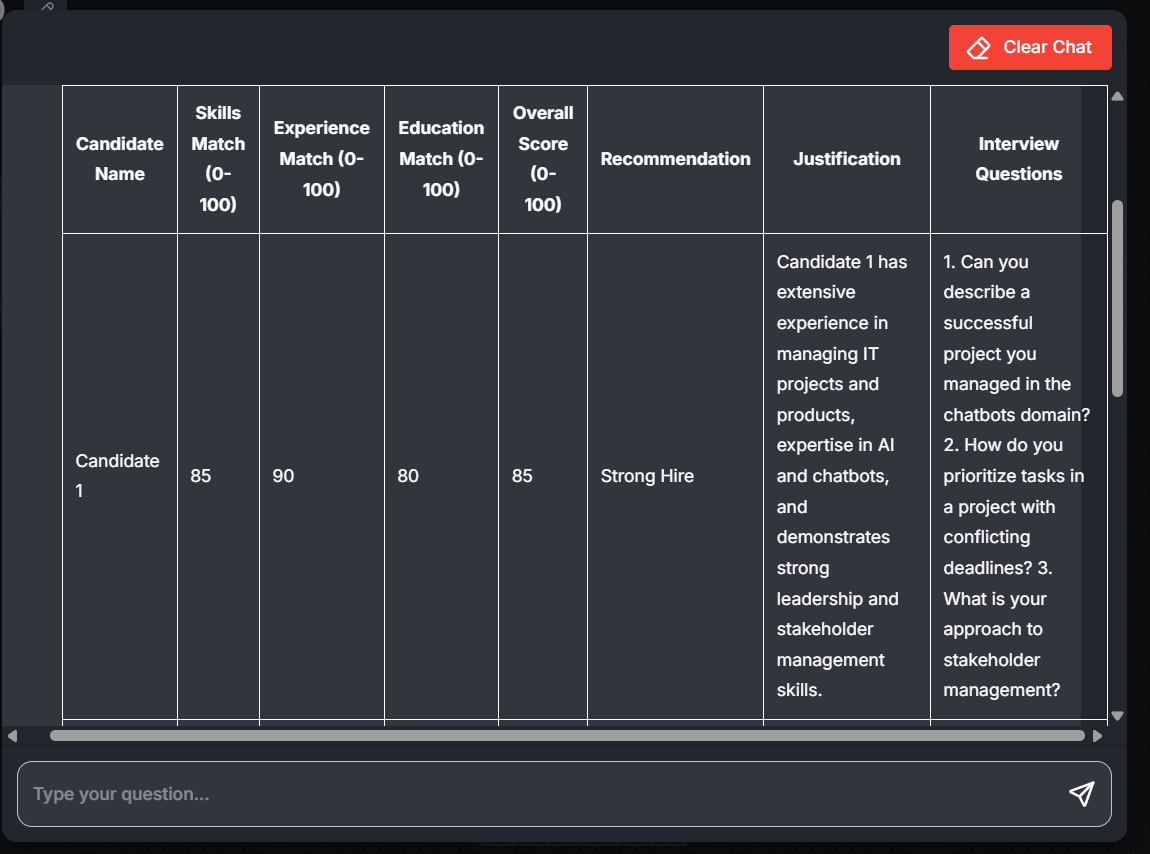
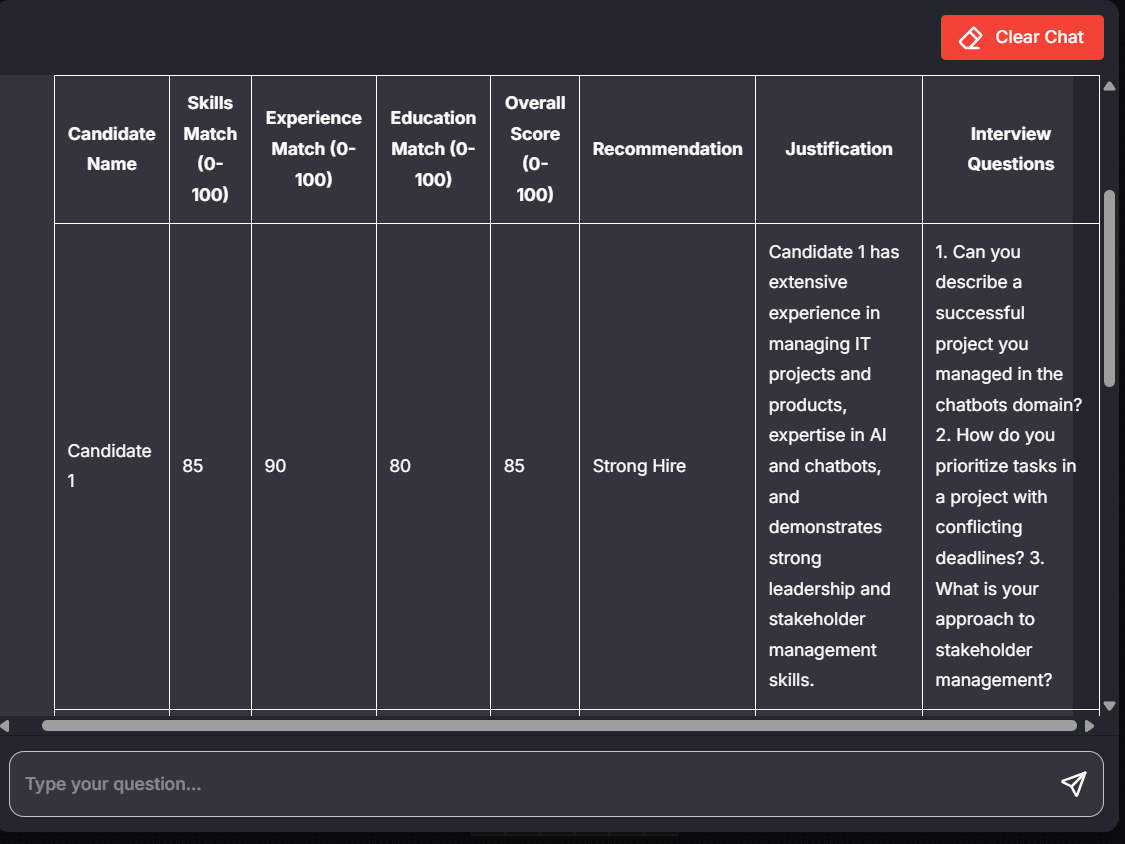
Optimization of the project's visual design

diff --git a/README.md b/README.md
@@ -1,11 +1,12 @@
 # ai-hr-assistant
 
 ![Flowise AI](https://img.shields.io/badge/Flowise-AI-blue)
-![OpenAI](https://img.shields.io/badge/OpenAI-GPT--5.4--mini-green)
+![OpenAI](https://img.shields.io/badge/OpenAI-GPT--4o-green)
 ![RAG](https://img.shields.io/badge/RAG-enabled-orange)
 ![License](https://img.shields.io/badge/License-MIT-yellow)
 
 AI HR Assistant is an AI-powered recruitment assistant that analyzes one or multiple candidate resumes, evaluates candidates against predefined criteria, and generates personalized interview questions.
+
 The project is built on Flowise and uses LLM + Retrieval + Structured output.
 
 # Features
@@ -42,6 +43,7 @@ It generated:
 ![Example Output](screenshots/example-output.png)
 # Architecture
 
+```
 Resume PDF(s)
       ↓
 Recursive Character Text Splitter
@@ -58,7 +60,9 @@ ChatOpenAI
       ↓
 Structured Output Parser
       ↓
-Candidate Evaluation JSON
+Candidate Evaluation JSON 
+```
+
 
 # Tech Stack
 
@@ -75,20 +79,28 @@ Candidate Evaluation JSON
 
 The knowledge source is provided dynamically through uploaded candidate resumes in PDF format.
 
-Input:
-Candidate(s) Resume (PDF)
-Job description
+Evaluation Input:
+
+* Candidate(s) Resume (PDF)
+* Job description
+
+The agent can evaluate candidates against:
+
+- a provided job description; or
+- standard industry requirements when no job description is provided.
 
 Processing:
+
 PDF → Text → Chunks → Embeddings → Vector Store
 
 Retrieval:
+
 Relevant resume information → LLM
 
 Output: 
 - Ranked candidate list
 - Individual scores
-- Hiring recommendationv
+- Hiring recommendation
 
 # Evaluation Logic
 
@@ -104,10 +116,12 @@ The agent evaluates candidates using predefined criteria and generates an overal
 The recommendation is deterministically mapped to the Overall Score using predefined thresholds.
 
 Recommendation:
-* **85 - 100**`Strong Hire`
-* **70 - 84** `Hire`
-* **50 - 69** `Consider`
-* **0 - 49** `Reject`
+| Overall Score | Recommendation |
+|---|---|
+| 85–100 | Strong Hire |
+| 70–84 | Hire |
+| 50–69 | Consider |
+| 0–49 | Reject |
 
 AI-generated evaluations are intended to support recruiter decision-making and should always be reviewed by a human.
 # Project Structure
@@ -151,23 +165,10 @@ Multiple candidates
 
 For example, ask an agent: "Evaluate these three candidates for the Project Manager position."
 
-Candidate A
-Skills Match: 85
-Experience Match: 78
-Education Match: 80
-Overall Score: 82
-Recommendation: Hire
-
-Candidate B
-...
-
-Candidate C
-...
-
 **Output (JSON / Summary):**
-- **Candidate A:** Overall Score 82/100 (`Hire`) 
-- **Candidate B:** Overall Score 91/100 (`Strong Hire`) 
-- **Candidate C:** Overall Score 45/100 (`Reject`)
+- **Candidate A:** Overall Score 82/100 - `Hire` 
+- **Candidate B:** Overall Score 91/100 - `Strong Hire` 
+- **Candidate C:** Overall Score 45/100 - `Reject`
 
 Also, when making a request, the agent can indicate the candidate's strengths and weaknesses and generate interview questions for the selected candidate.
 
